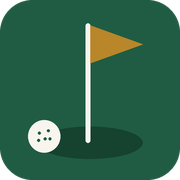
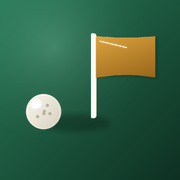
Add files via upload

diff --git a/index.html b/index.html
@@ -907,7 +907,7 @@
           </div>
 
           <div class="card">
-            <div class="section-head"><div><h2>Jugadores</h2><p>Añade a cada equipo jugadores que ya están en la app (su hándicap sube solo del ranking) o invitados sueltos que no la usan (con hándicap a mano).</p></div></div>
+            <div class="section-head"><div><h2>Jugadores</h2><p>Cada equipo se rellena solo con quien ya tiene ese equipo en Equipos. Usa esto solo para jugadores de la app SIN equipo asignado, o invitados sueltos que no usan la app (con hándicap a mano). Para quitar o recuperar a alguien que sí tiene equipo, usa "Quitar"/"Readmitir" en su lista de abajo.</p></div></div>
             <div class="grid2">
               <div class="stack">
                 <h3 style="font-size:15px;" id="ryderTeamLabelA">Equipo A</h3>
@@ -1064,7 +1064,7 @@
   // 25/8/2026 (varias rondas de Entrepinos mal calculadas — ver decisiones del proyecto).
   // Este valor se sube a mano cada vez que se publica un cambio en index.html; el chequeo
   // de versión de más abajo lo compara contra el index.html que hay realmente publicado.
-  var APP_VERSION = "2026-08-28.24";
+  var APP_VERSION = "2026-08-28.25";
 
   // ---------- Store: caché en memoria, alimentada en tiempo real desde Firestore ----------
   var Store = { players: [], teams: [], tees: [], rounds: [], deletedRounds: [], courseGeo: [], ryder: null, config: { pin: '2026', autoApprove: false } };
@@ -4231,9 +4231,18 @@
       }).join('');
     });
   }
+  // Reportado el 8/9/2026: tras excluir a Carlos García de Pichones con "Quitar", este mismo
+  // desplegable empezó a ofrecerlo como ÚNICA opción para "añadir" — justo lo contrario de lo
+  // que se quería. Pasaba porque antes se calculaba `used` a partir de quién está ACTIVO ahora
+  // mismo en algún equipo (ryderAllMembers ya filtra a los excluidos), así que un jugador recién
+  // excluido dejaba de contar como "puesto" y reaparecía aquí como si fuera nuevo por fichar —
+  // y si se le daba a "Añadir", se colaba de vuelta por un alta manual sin quitarle realmente la
+  // exclusión. Este desplegable es solo para jugadores SIN equipo en Equipos (fichajes sueltos o
+  // invitados de la app) — quien tiene equipo pero se excluyó de esta Ryder concreta vuelve por
+  // "Readmitir" en la lista de excluidos, no por aquí.
   function renderRyderAddPlayerSelect(team, rd){
-    var used = ryderAllMembers(rd).filter(function(e){ return e.source==='player'; }).map(function(e){ return e.playerId; });
-    var avail = players().filter(function(p){ return used.indexOf(p.id)===-1; }).sort(function(a,b){ return a.name.localeCompare(b.name,'es'); });
+    var manualUsed = rd.roster.filter(function(e){ return e.source==='player'; }).map(function(e){ return e.playerId; });
+    var avail = players().filter(function(p){ return !p.team && manualUsed.indexOf(p.id)===-1; }).sort(function(a,b){ return a.name.localeCompare(b.name,'es'); });
     var sel = $('#ryderAddPlayer'+team.toUpperCase());
     var keep = sel.value;
     sel.innerHTML = '<option value="">Elige jugador de la app…</option>' + avail.map(function(p){ return '<option value="'+esc(p.id)+'">'+esc(p.name)+'</option>'; }).join('');

diff --git a/firebase-config.js b/firebase-config.js
@@ -20,4 +20,9 @@ window.HCP_FIREBASE_CONFIG = {
 // protege la única función de backend del proyecto ("Cargar rondas desde una captura") para
 // que solo tu propia página, cargada de verdad en un navegador, pueda usarla — no sirve para
 // nada más y, como el resto de este fichero, no es un secreto que haya que esconder.
+// (Se llama "_V3" por el nombre de la variable, pero desde agosto de 2026 Firebase pide la
+// clave de reCAPTCHA Enterprise en vez de la reCAPTCHA v3 clásica — ver SETUP.md, paso 6.)
+// Mientras siga con el valor de ejemplo de abajo, la tarjeta "Cargar rondas desde una captura"
+// se queda oculta sola (sin romper nada más de la app) — rellénala solo cuando hayas seguido
+// la Parte 3 de SETUP.md.
 window.HCP_RECAPTCHA_SITE_KEY = "6Lci9ZstAAAAANxwuweKmSAL87MhR2EhVGRhXldt";

diff --git a/SETUP.md b/SETUP.md
@@ -65,6 +65,107 @@ Con esto, tu base de datos ya existe y sabe aceptar conexiones desde tu web.
    Ese es el enlace definitivo para compartir con todo el grupo. Funciona en
    cualquier navegador, móvil o cuenta — no depende de Claude.
 
+## Parte 3 — "Cargar rondas desde una captura" (opcional, 27/8/2026)
+
+Esta parte es **opcional y aparte de todo lo anterior**: si no la haces, el resto de
+la app funciona exactamente igual. Es solo para activar la tarjeta "Cargar rondas
+desde una captura" en la pestaña Rondas (subir una foto del marcador de una partida y
+que la app proponga las rondas de cada jugador para que las apruebes). Es la única
+parte de todo el proyecto que necesita algo más que Firebase + GitHub Pages, porque
+leer una foto con IA necesita una pieza de servidor — mientras no hagas esta parte,
+esa tarjeta se queda oculta sola y no rompe nada más.
+
+1. **Pasar tu proyecto Firebase al plan Blaze** (pago por uso — sigue siendo gratis
+   en la práctica para un grupo de amigos: Google da 2 millones de llamadas gratis al
+   mes a las Cloud Functions, y por este uso no deberíais acercaros ni de lejos).
+   Firebase Console → icono de la rueda dentada → "Uso y facturación" → "Modificar
+   plan" → Blaze. Pide una tarjeta de pago, pero solo se cobra si de verdad se supera
+   la capa gratuita.
+2. **Activar la API de Vertex AI** en Google Cloud Console (el mismo proyecto que tu
+   Firebase). Ojo: Google renombró este producto a mitad de 2026 — en el buscador de
+   arriba de la consola ya no aparece como "Vertex AI", sino como **"Agent Platform
+   API"** (o, si buscas por el nombre del servicio, `aiplatform`). Es la misma API de
+   siempre por debajo, solo cambió el nombre visible. Búscala y pulsa "Habilitar".
+3. **Instalar Node.js** (si no lo tienes) y luego **Firebase CLI**:
+   ```
+   npm install -g firebase-tools
+   firebase login
+   ```
+   En Windows, si `npm` da un error de que la ejecución de scripts está deshabilitada,
+   abre PowerShell como tú (no hace falta administrador) y ejecuta una vez:
+   `Set-ExecutionPolicy -Scope CurrentUser RemoteSigned` — es el ajuste normal y seguro
+   para poder usar herramientas de desarrollo, luego `npm` funciona sin más.
+4. **Instalar las dependencias de la función** — antes de desplegar, entra en la
+   carpeta `functions/` y ejecuta una vez:
+   ```
+   cd functions
+   npm install
+   cd ..
+   ```
+5. **Desplegar la función**: desde la carpeta donde tienes estos ficheros (con la
+   carpeta `functions/` y el fichero `firebase.json` dentro — ambos ya vienen
+   incluidos, `firebase.json` es lo que le dice a este comando dónde está la función),
+   ```
+   firebase use --add        (elige tu proyecto, p. ej. coartadagolf)
+   firebase deploy --only functions
+   ```
+   La primera vez, el propio comando te puede pedir permiso para activar algunas APIs
+   adicionales (Cloud Build, Artifact Registry, Eventarc) — acepta, son necesarias
+   para poder desplegar cualquier función y no tienen coste por sí solas.
+6. **Dar permiso a la función para usar Vertex AI**: Google Cloud Console → "IAM y
+   administración" → "IAM". Busca en la lista la cuenta de servicio que termina en
+   `@PROYECTO.iam.gserviceaccount.com` o `-compute@developer.gserviceaccount.com`
+   (es la identidad con la que corre la función) → lápiz de editar → "Añadir otro rol"
+   → busca `aiplatform.user` y elige **"Usuario de Agent Platform"** (mismo rol de
+   siempre, "Vertex AI User", con el nombre visible actualizado) → Guardar.
+7. **Activar App Check** (la protección para que solo tu propia web pueda llamar a la
+   función, no cualquier bot): Firebase Console → "compilación" → "App Check" →
+   registra tu app web. Desde agosto de 2026 Firebase solo ofrece **reCAPTCHA
+   Enterprise** como proveedor (ya no aparece la v3 clásica) — la clave se crea aparte,
+   en Google Cloud Console → "Seguridad" → "reCAPTCHA Enterprise" → "Crear clave",
+   tipo **"Sitio web" · Score** (es el equivalente a la v3 de siempre), con el dominio
+   de GitHub Pages (`TU-USUARIO.github.io`) en la lista de dominios permitidos. Esa
+   pantalla te da un **ID de clave** (site key), un valor público que empieza distinto
+   cada vez — vuelve a Firebase App Check y termina el registro con esa clave.
+8. **Pegar esa clave** en `firebase-config.js`, sustituyendo
+   `"PON_AQUI_TU_CLAVE_DE_RECAPTCHA_V3"` por el valor real (cópiala siempre directamente
+   de la consola de Google, nunca de un texto pegado en otro sitio — un solo carácter
+   mal copiado, p. ej. una "S" en vez de un "5", hace que la función falle con un error
+   de "API key not valid" que cuesta de detectar a simple vista). Vuelve a subir el
+   fichero a GitHub. Si lo subes reemplazando el fichero descargado del chat, comprueba
+   que el nombre siga siendo exactamente `firebase-config.js` con guion — algunos
+   navegadores lo guardan sin el guion al descargarlo, y entonces GitHub acaba creando
+   un fichero nuevo (`firebaseconfig.js`) en vez de sustituir el que la web carga de
+   verdad; si pasa eso, edita el fichero correcto directamente con el lápiz de GitHub
+   en vez de volver a subirlo.
+9. **Poner un tope de gasto real** (no solo una alerta), por tranquilidad (dos
+   minutos, gratis): Google Cloud Console → "Facturación" → "Presupuestos y alertas"
+   → "Crear presupuesto" → elige como ámbito tu proyecto + el servicio "Gemini
+   API"/"Vertex AI" → periodo "Mensual" → pon un importe pequeño (por ejemplo 1€) →
+   activa el interruptor de **"Tope de gasto" (spend cap)**, no solo la alerta.
+   Repite el mismo proceso eligiendo el servicio "Cloud Run functions". A diferencia
+   de una alerta normal (que solo avisa), esto bloquea de verdad cualquier uso nuevo
+   de ese servicio en cuanto se llega al importe, hasta que tú mismo lo reactives a
+   mano desde la consola — el margen de retraso en detectarlo es mínimo, y con el
+   coste real de esto (fracciones de céntimo por captura) nunca vais a acercaros ni
+   de lejos a 1€ en un mes normal.
+10. **Probar**: abre la web, identifícate, ve a la pestaña Rondas — debería aparecer ya
+    la tarjeta "Cargar rondas desde una captura". Súbele una foto del marcador de una
+    partida: primero te pregunta, de forma simple, si el campo, la barra y la fecha
+    detectados son correctos (los puedes corregir ahí mismo); solo después de confirmar
+    eso aparece la lista de jugadores, ya en formato compacto (una fila por jugador, con
+    un icono ⚠ si hay posible duplicado y un botón ✓ para aprobar cada uno). Cada fila
+    intenta emparejar el nombre detectado con alguien ya registrado (tolera tildes y
+    apellidos incompletos, p. ej. "Mario Bedialauneta" reconoce a "Mario Bedia" ya
+    existente); si no reconoce a nadie parecido, marca sola el icono 🆕 de "jugador
+    nuevo" con el nombre precargado — revisa cada fila antes de aprobarla y, si el
+    emparejamiento se equivoca, puedes marcar o desmarcar ese icono a mano.
+
+Nada de esto necesita tocar `firestore.rules` otra vez — la función nueva no lee ni
+escribe en las colecciones de siempre (`players`, `rounds`, etc.), solo en una
+colección propia de contador (`_screenshotImportUsage`) que ya queda bloqueada para
+cualquiera que no sea la propia función, por las mismas reglas que ya tienes.
+
 ## El icono al añadir la web a la pantalla de inicio del móvil
 
 Desde el 26/8/2026, la página lleva su propio icono (una bandera de golf sobre fondo verde,
